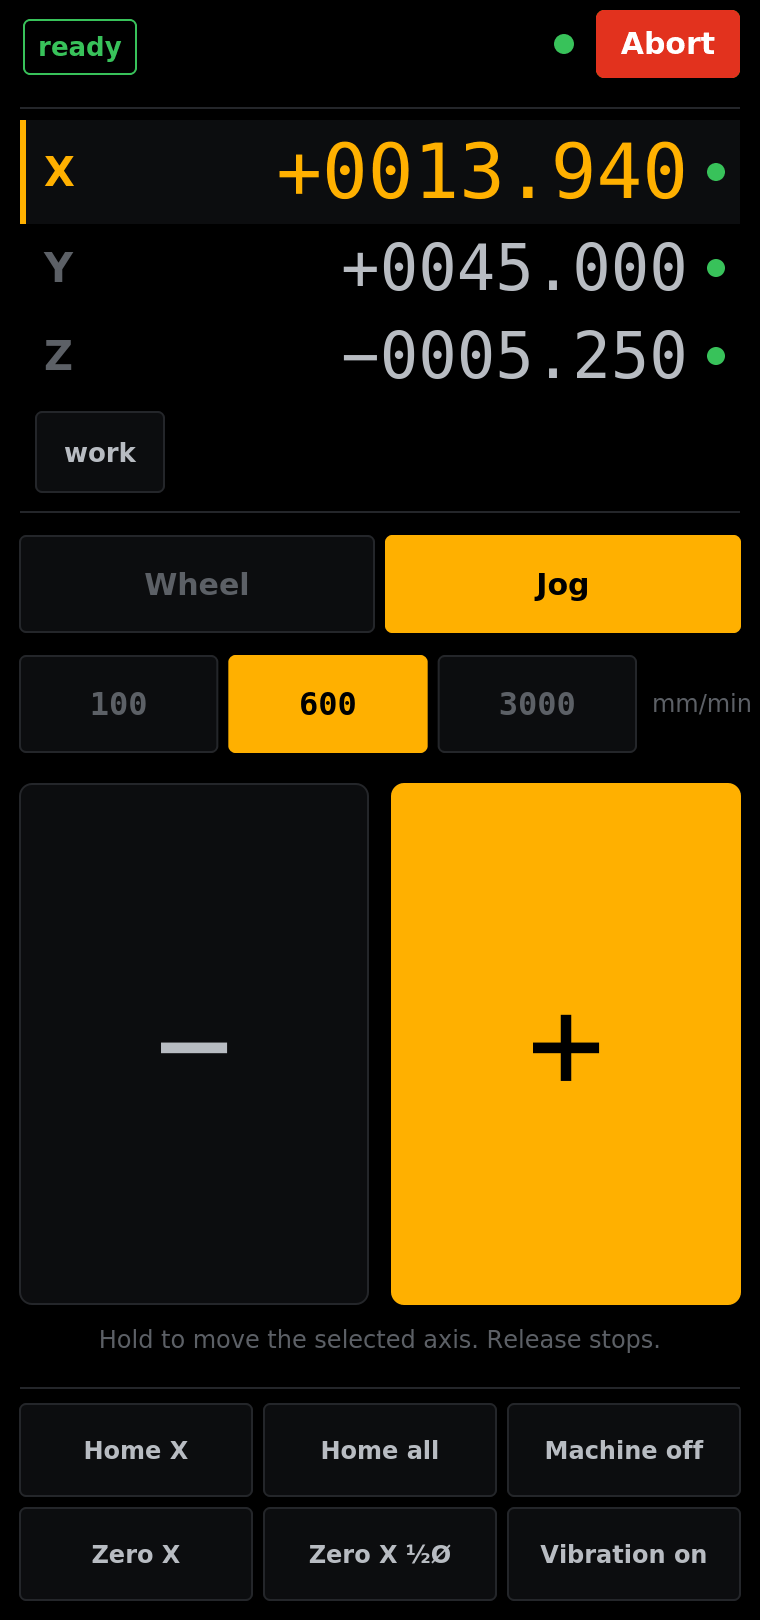
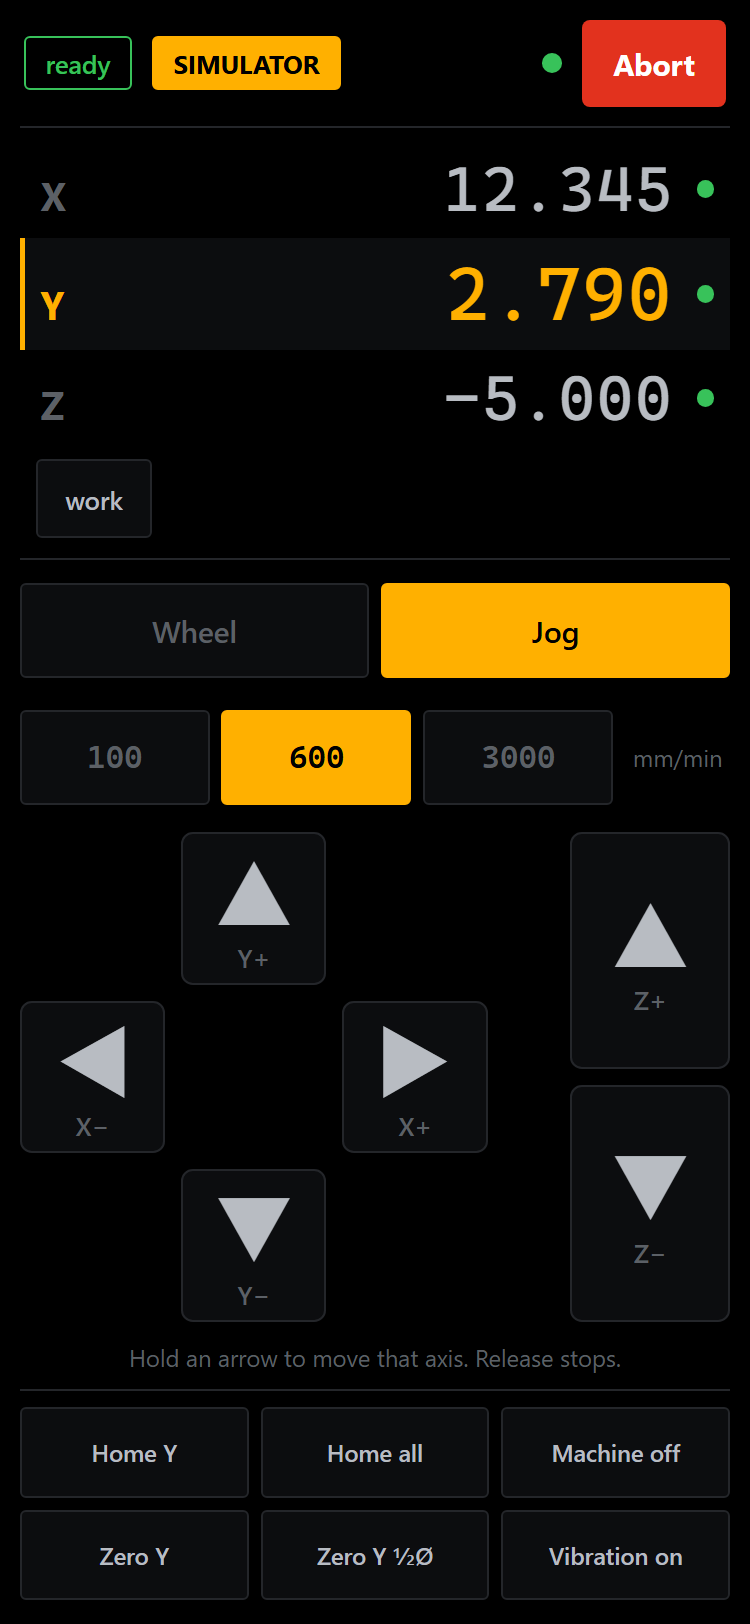
Pendant polish and real screenshots
Screenshots in images/ are now captured from the pendant running in simulator mode (headless browser, 375x812 phone viewport at 2x, plus landscape) instead of design renders: wheel, the six-arrow jog mode, the half-diameter dialog, the machine-off interlock, landscape.

Polish: the DRO row of the axis being jogged lights up while an arrow is held; the jog pane says why jogging is disabled (machine off, e-stop, program running) like the wheel does; negative DRO values keep the sign next to the digits with decimals still aligned; the landscape wheel is larger.

diff --git a/mpg/static/mpg.js b/mpg/static/mpg.js
@@ -45,7 +45,7 @@ const el = {
   wheelWrap: $("wheelWrap"), wheelSvg: $("wheelSvg"), rotor: $("wheelRotor"),
   ticks: $("ticks"), wheelHint: $("wheelHint"),
   jogBtns: Array.from(document.querySelectorAll("#jogPane .jog-btn")),   // six arrows
-  homeBtn: $("homeBtn"), homeAllBtn: $("homeAllBtn"),
+  jogNote: $("jogNote"), homeBtn: $("homeBtn"), homeAllBtn: $("homeAllBtn"),
   zeroBtn: $("zeroBtn"), powerBtn: $("powerBtn"), vibeBtn: $("vibeBtn"),
   zeroHalfBtn: $("zeroHalfBtn"), halfDlg: $("halfDlg"), halfTitle: $("halfTitle"),
   halfTool: $("halfTool"), halfUseTool: $("halfUseTool"), halfDia: $("halfDia"),
@@ -160,8 +160,9 @@ function buildDro() {
 }
 
 function fmt(v) {
-  const sign = v < 0 ? "\u2212" : "\u00a0";
-  return sign + Math.abs(v).toFixed(3).padStart(8, "\u00a0");
+  // sign next to the digits, fixed 9-character field so decimals stay aligned
+  const s = (v < 0 ? "\u2212" : "") + Math.abs(v).toFixed(3);
+  return s.padStart(9, "\u00a0");
 }
 
 /* -------------------------------------------------------------- render -- */
@@ -194,11 +195,16 @@ function render() {
   el.coordBtn.textContent = settings.coord;
 
   const jogOk = c && st.jog_ok;
-  el.wheelWrap.classList.toggle("disabled", !jogOk);
-  el.wheelHint.textContent = !c ? "no connection"
+  const hint = !c ? "no connection"
     : st.estop ? "e-stop active"
     : !st.on ? "machine off"
     : !st.idle ? "program running" : "";
+  el.wheelWrap.classList.toggle("disabled", !jogOk);
+  el.wheelHint.textContent = hint;
+  el.jogNote.textContent = jogOk
+    ? "Hold an arrow to move that axis. Release stops."
+    : hint + " — jogging disabled";
+  el.jogNote.classList.toggle("warn", !jogOk);
   if (!jogOk && jogHeld) stopJog();   // release first: a disabled button may swallow pointerup
   el.jogBtns.forEach((b) => {
     b.disabled = !jogOk;
@@ -379,6 +385,9 @@ function startJog(btn, axis, dir) {
   jogAxis = axis;
   heldSeq = seq;
   btn.classList.add("held");
+  // light up the DRO row of the axis that is moving (it may not be the selected one)
+  const row = el.dro.querySelector('.dro-row[data-axis="' + axis + '"]');
+  if (row) row.classList.add("jogging");
   requestWakeLock();
   post("api/jog", {
     action: "start", axis, dir, velocity: settings.speed, seq, client: CLIENT,
@@ -409,6 +418,7 @@ function stopJog() {
   if (!jogHeld) return;
   const axis = jogAxis, seq = heldSeq;
   jogHeld.classList.remove("held");
+  el.dro.querySelectorAll(".dro-row.jogging").forEach((r) => r.classList.remove("jogging"));
   jogHeld = null;
   jogAxis = null;
   heldSeq = 0;

diff --git a/mpg/static/mpg.css b/mpg/static/mpg.css
@@ -119,6 +119,7 @@ body { user-select: none; -webkit-user-select: none; touch-action: pan-y; }
   white-space: pre;
 }
 .dro-row.sel .dro-val { color: var(--amber); font-size: 3.8rem; }
+.dro-row.jogging .dro-axis, .dro-row.jogging .dro-val { color: var(--amber); } /* axis being jogged */
 .homed-dot {
   width: 0.9rem; height: 0.9rem; border-radius: 50%;
   background: var(--line);
@@ -247,6 +248,7 @@ body { user-select: none; -webkit-user-select: none; touch-action: pan-y; }
 .jog-btn:active .lbl, .jog-btn.held .lbl { color: #000; }
 .jog-btn:disabled { opacity: 0.35; }
 .jog-note { font-size: 1.2rem; color: var(--dim); text-align: center; margin: 0 0 0.8rem; }
+.jog-note.warn { color: var(--amber); }
 
 /* ---- action row --------------------------------------------------------- */
 .actions {
@@ -380,7 +382,7 @@ body { user-select: none; -webkit-user-select: none; touch-action: pan-y; }
   .mode-seg { grid-area: mode; }
   .actions  { grid-area: acts; align-self: start; }
   .pane     { grid-area: pane; }
-  #wheelSvg { width: min(26rem, 40vw); width: min(26rem, 44dvh, 40vw); }
+  #wheelSvg { width: min(28rem, 40vw); width: min(28rem, 56dvh, 40vw); }
   .jog-buttons { min-height: 20rem; }
 }
 

diff --git a/mpg/templates/mpg.html b/mpg/templates/mpg.html
@@ -86,7 +86,7 @@
       <button id="jogZp" class="jog-btn" data-axis="z" data-dir="1"  type="button"><span class="arrow">&#9650;</span><span class="lbl">Z+</span></button>
       <button id="jogZm" class="jog-btn" data-axis="z" data-dir="-1" type="button"><span class="arrow">&#9660;</span><span class="lbl">Z&minus;</span></button>
     </div>
-    <p class="jog-note">Hold an arrow to move that axis. Release stops.</p>
+    <p class="jog-note" id="jogNote">Hold an arrow to move that axis. Release stops.</p>
   </section>
 
   <footer class="actions">

diff --git a/README.md b/README.md
@@ -12,9 +12,6 @@ over shop Wi-Fi. The original web frontend still lives at `/` (with a few fixes,
   <img src="images/03-zero-half-dialog.png" width="230" alt="Half-diameter edge zero">
 </p>
 
-*The jog-mode screenshot shows the earlier two-button layout; jog mode now has six
-arrows (X/Y cross, Z pair).*
-
 ## Features
 
 - **MPG wheel** — 24 detents per revolution, one vibration tick per detent
@@ -198,8 +195,8 @@ NML at 20 Hz and streams it to the page over Server-Sent Events at 10 Hz; comman
 go back as small JSON POSTs. Wheel detents become bounded incremental jogs, held
 buttons become continuous jogs guarded by a watchdog thread, and touch-off runs
 `G10 L20` through a brief MDI round-trip. No websockets, no build step, no
-dependencies beyond Flask. The screenshots in `images/` are design renders generated
-from the stylesheet.
+dependencies beyond Flask. The screenshots in `images/` are taken from the pendant
+running in simulator mode.
 
 ## Changes to the upstream UI
 
